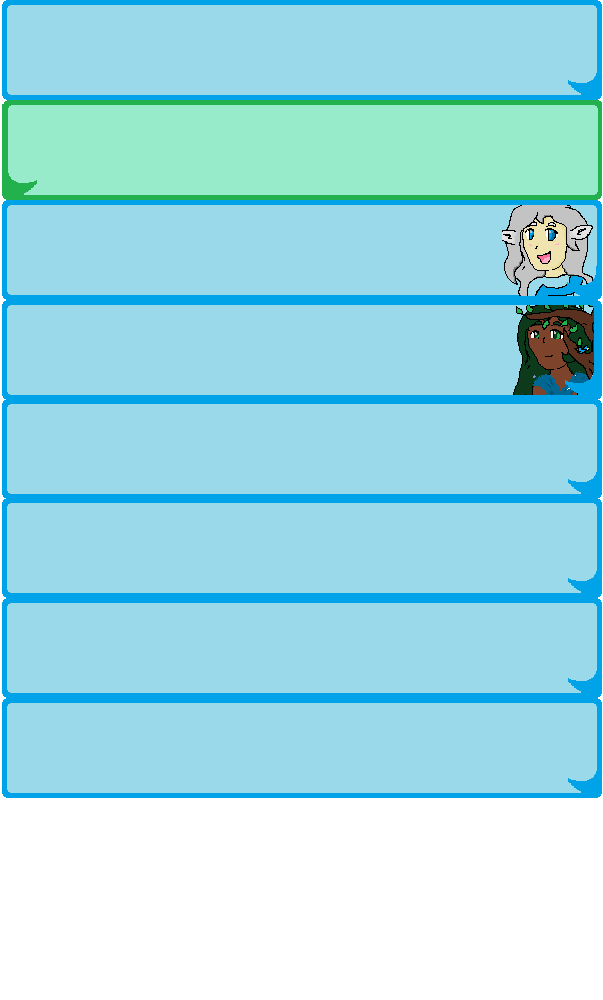
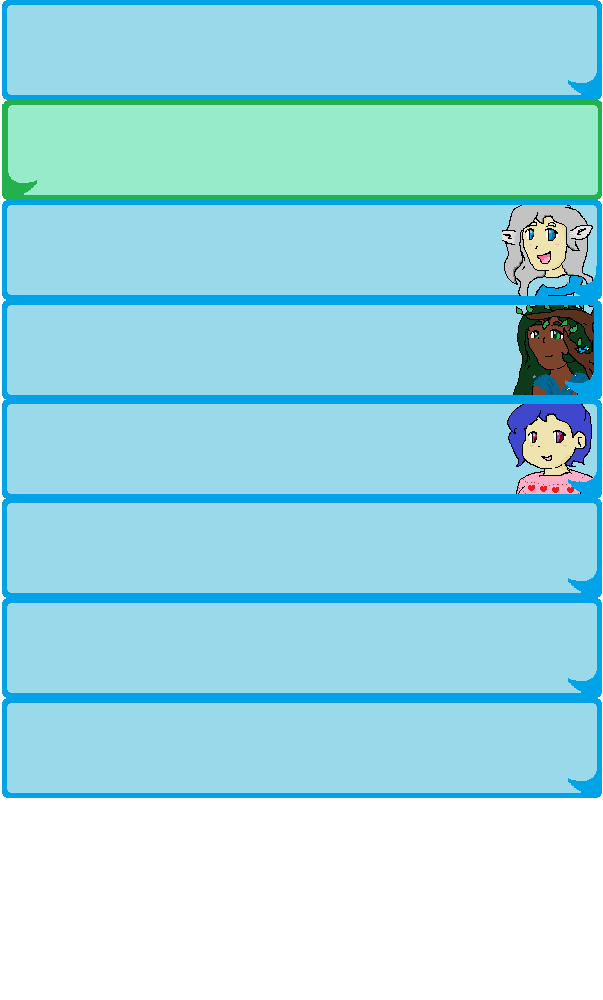
Speech bubble corrected. Judy added. Bug preventing text input still present from some previous commit

Changed region(s): [[0.8358, 0.403, 0.9851, 0.496]]

diff --git a/index.html b/index.html
@@ -14,6 +14,7 @@
         var d=0;
         var a = 0;
         var pt = 0;
+        var ju = 0;
 
         
         //turn the sprite maps into usable components
@@ -39,7 +40,10 @@
             pitys: [0,2,1,2]
         });
         Crafty.sprite(100, "speak3.png", {
-            dolly: [0, 3,6,1]  
+            dolly_post: [0, 2,6,1],
+            pitys_post: [0, 3,6,1],
+            judy_post: [0, 4,6,1],
+            anna_post: [0, 5,6,1],            
         });         
         Crafty.sprite(100, "speak2.png", {
             greenpost: [0, 1],
@@ -112,14 +116,14 @@
                         this.visible = true;
                         if (pst.indexOf("HELLO") >= 0){
                             this.text("Welcome Back");
-                        }else if (pst.indexOf("SHEEP") >= 0 || (pst.indexOf("FARM") >= 0) || (pst.indexOf("CLONE") >= 0) || (pst.indexOf("CAT")) >= 0 || (pst.indexOf("BOT") >= 0) || (pst.indexOf("TREES")) >=0|| (pst.indexOf("BRANCH")) >=0){
+                        }else if (pst.indexOf("SHEEP") >= 0 || (pst.indexOf("FARM") >= 0) || (pst.indexOf("CLONE") >= 0) || (pst.indexOf("CAT")) >= 0 || (pst.indexOf("BOT") >= 0) || (pst.indexOf("TREES")) >=0|| (pst.indexOf("BRANCH")) >=0 || (pst.indexOf("FOOD")) >=0 || (pst.indexOf("FORK")) >=0 || (pst.indexOf("RESTAURANT")) >=0){
                             var i = 0;
                             var j = pst.indexOf("SHEEP", i);
                             while (j > -1){
                                d += 1; 
                                i = j +1
                                j = pst.indexOf("SHEEP", i);
-                               this.speaker = "0";
+                               this.speaker = "1";
                                this.text(":)");
                             }
                             i = 0;
@@ -128,7 +132,7 @@
                                 d += 1; 
                                 i = j +1
                                 j = pst.indexOf("FARM", i);
-                                this.speaker = "0";
+                                this.speaker = "1";
                                 this.text(":)");
                             }
                             i = 0;
@@ -137,7 +141,7 @@
                                d += 1; 
                                i = j+1
                                j = pst.indexOf("CLONE", i);
-                               this.speaker = "0";
+                               this.speaker = "1";
                                this.text(":)");
                             }
                             var i = 0;
@@ -147,7 +151,7 @@
                                i = j +1
                                j = pst.indexOf("CAT", i);
                                this.text("~Meow");
-                               this.speaker = "1";  
+                               this.speaker = "0";  
                             }
                             i = 0;
                             j = pst.indexOf("BOT", i);
@@ -156,7 +160,7 @@
                                i = j+1
                                j = pst.indexOf("BOT ", i);
                                this.text("...")
-                               this.speaker = "1";  
+                               this.speaker = "0";  
                             } 
                             var i = 0;
                             var j = pst.indexOf("BRANCH", i);
@@ -175,6 +179,32 @@
                                j = pst.indexOf("TREE ", i);
                                this.text("ah, nature")
                                this.speaker = "2";  
+                            }                            i = 0;
+                            j = pst.indexOf("FOOD", i);
+                            while(j > -1){  
+                               ju += 1; 
+                               i = j+1
+                               j = pst.indexOf("FOOD ", i);
+                               this.text("All this talk of food makes me hungry! maybe i'll make some risoto?")
+                               this.speaker = "3";  
+                            } 
+                            var i = 0;
+                            var j = pst.indexOf("FORK", i);
+                            while (j > -1){
+                               ju += 1; 
+                               i = j +1
+                               j = pst.indexOf("FORK", i);
+                               this.text("Utensils?");
+                               this.speaker = "3";  
+                            }
+                            i = 0;
+                            j = pst.indexOf("RESTAURANT", i);
+                            while(j > -1){  
+                               ju += 1; 
+                               i = j+1
+                               j = pst.indexOf("RESTAURANT ", i);
+                               this.text("I own a restuarant, ya know?")
+                               this.speaker = "2";  
                             }
                             
                             
@@ -184,7 +214,14 @@
                              this.text("hmmm");
                         }
                         if (this.speaker == 0)
-                                this.addComponent("dolly")
+                            this.addComponent("anna_post");
+                        else if(this.speaker == 1)
+                            this.addComponent("dolly_post");
+                        else if(this.speaker == 2)
+                            this.addComponent("pitys_post");
+                        else if(this.speaker == 3)
+                            this.addComponent("judy_post");                            
+                            
                         this.textFont({ family: 'Arial', size:"40px" , weight: "bold"})
                         this.delay(function(){this.visible = false},3000);
                        npc_post = false;
@@ -524,13 +561,13 @@
                             }
 
                     }        
-                    } else if (e.key == Crafty.keys['UP_ARROW'] || e.key == Crafty.keys['W']){
+                    } else if (e.key == Crafty.keys['UP_ARROW'] ){
                             this.y = this.y - 20;
-                    }else if (e.key == Crafty.keys['DOWN_ARROW'] || e.key == Crafty.keys['S']){
+                    }else if (e.key == Crafty.keys['DOWN_ARROW'] ){
                             this.y = this.y + 20;
-                    }else if (e.key == Crafty.keys['LEFT_ARROW'] || e.key == Crafty.keys['A']){
+                    }else if (e.key == Crafty.keys['LEFT_ARROW'] ){
                             this.x = this.x - 20;
-                    }else if (e.key == Crafty.keys['RIGHT_ARROW'] || e.key == Crafty.keys['D']){
+                    }else if (e.key == Crafty.keys['RIGHT_ARROW'] ){
                             this.x = this.x + 20;
                     }
                 
@@ -553,6 +590,7 @@
                document.getElementById('pointbox').value =  p;
                document.getElementById('dollymeter').value =  d;
                document.getElementById('pitysmeter').value =  pt;
+               document.getElementById('judymeter').value =  ju;
             })
         
         //Crafty.addEntityFactory('Wall', function() {
@@ -570,7 +608,7 @@
             //})
     
 	</script>
-    <p>Post New Message: <input  id = "PostBox" name="post" value="   Hello!"><input type="button" value="Post!" onClick=newPost();> Current Points <input  id = "pointbox" name="poinbox" readonly="readonly" ></p>
-    <p>Dolly: <input  id = "dollymeter" readonly="readonly" > Pitys: <input  id = "pitysmeter" readonly="readonly" ></p> Anna: <input  id = "annameter" readonly="readonly" ></p>
+    <p>Post New Message: <input  id = "PostBox" name="post" value="   Hello!"><input type="button" value="Post!" onClick=newPost();> Current Points <input  id = "pointbox" name="pointbox" readonly="readonly" ></p>
+    <p>Dolly: <input  id = "dollymeter" readonly="readonly" > Pitys: <input  id = "pitysmeter" readonly="readonly" ></p><p>Judy:  <input  id = "judymeter" readonly="readonly" > Anna: <input  id = "annameter" readonly="readonly" ></p>
 </body>
 </html>
